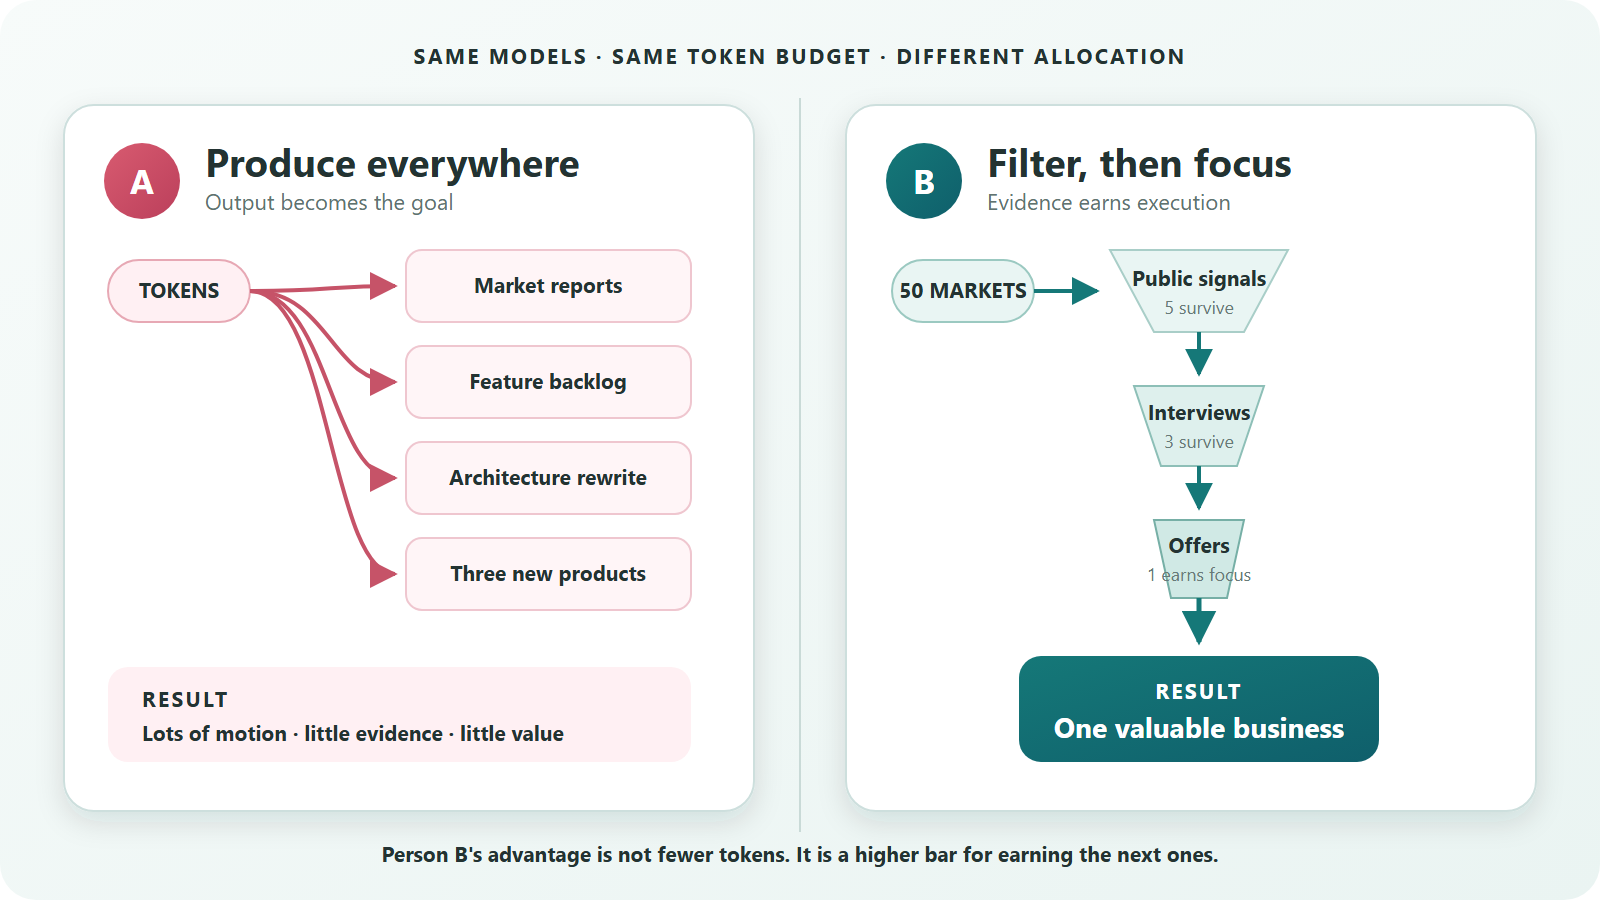
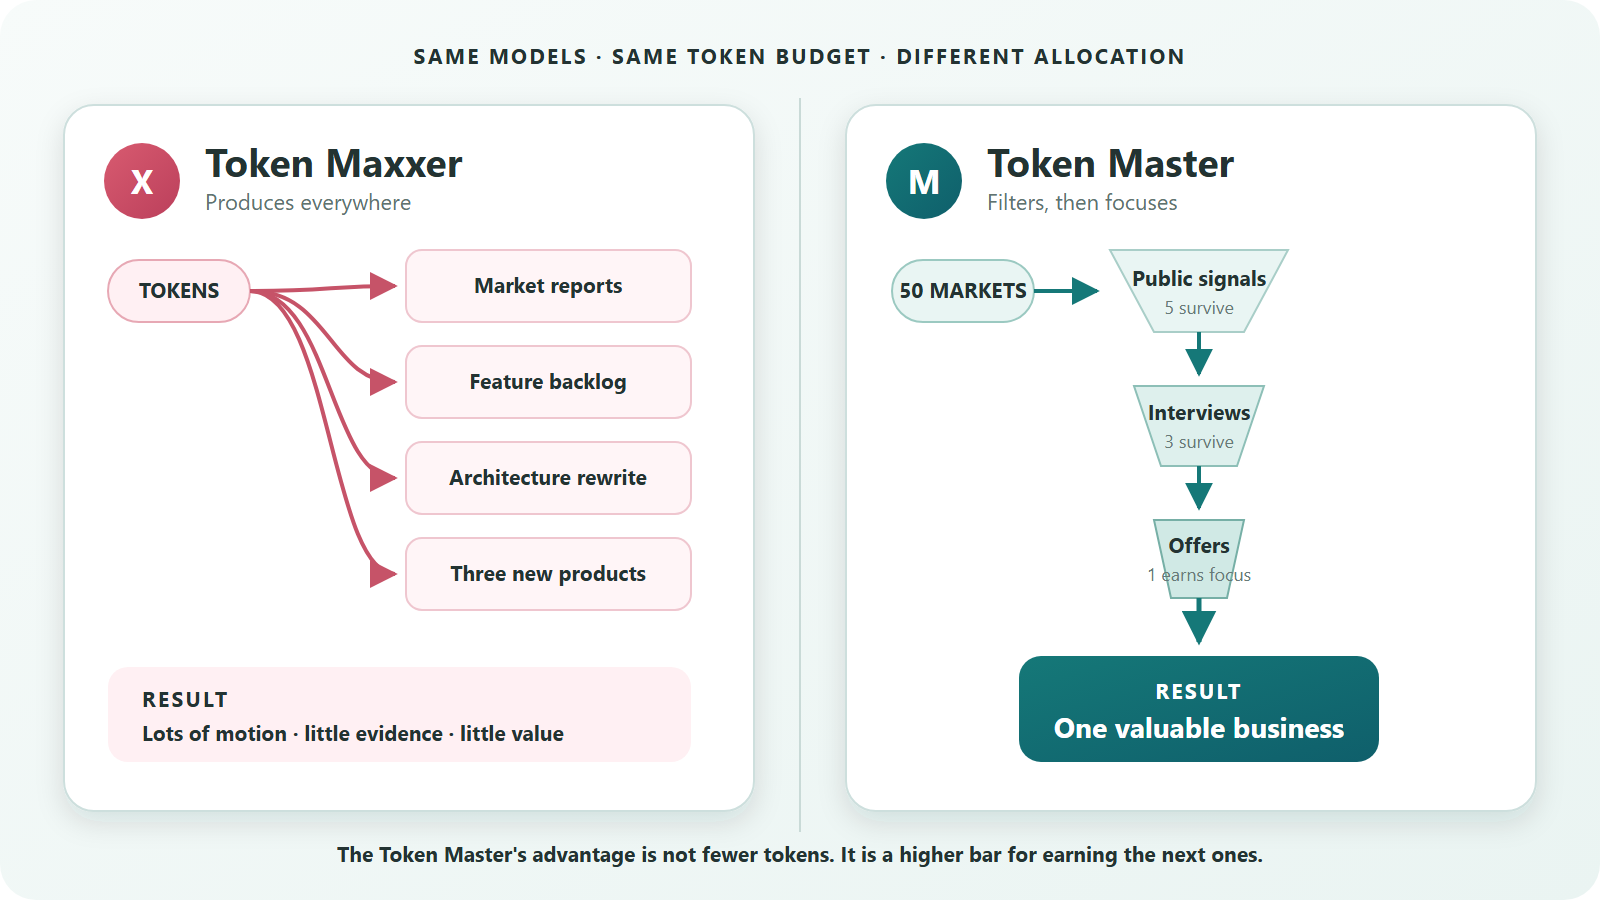
Reframe essay around token mastery

diff --git a/posts/revenue-per-token.md b/posts/revenue-per-token.md
@@ -1,27 +1,27 @@
 ---
 layout: default
-title: "Revenue per token: how to become Person B in the age of abundant intelligence"
-header_title: "Revenue per token"
+title: "Token Maxxer vs. Token Master: revenue per token in the age of abundant intelligence"
+header_title: "Token Maxxer vs. Token Master"
 date: 2026-08-09
-description: "AI makes production abundant. The scarce founder skill is deciding what deserves to be produced—and turning machine intelligence into evidence, customers, and revenue."
+description: "Token-maxxer culture celebrates AI output at any cost. Token mastery means allocating abundant intelligence toward evidence, customers, and revenue."
 image: /assets/images/revenue-per-token/person-a-person-b.png
 permalink: /posts/revenue-per-token/
 ---
 
 <div class="article-lead">
-  <p>The best AI-native founder will not be the person who produces the most. It will be the person who knows what deserves to be produced.</p>
+  <p>The Token Maxxer asks how much can be produced. The Token Master asks what deserves to be produced.</p>
 </div>
 
 Imagine two founders with access to the same models, coding agents, design tools, and token budget.
 
-**Person A** launches agents in every direction. They generate market reports, rewrite the architecture, create dozens of landing pages, polish onboarding, debate naming, refactor the database, and start several products at once. After a year, Person A has produced an extraordinary amount of work and very little value.
+**The Token Maxxer** launches agents in every direction. They generate market reports, rewrite the architecture, create dozens of landing pages, polish onboarding, debate naming, refactor the database, and start several products at once. After a year, the Maxxer has produced an extraordinary amount of work and very little value.
 
-**Person B** investigates 50 markets, rejects 45 quickly, speaks with customers in the remaining five, tests three offers, and finds one people will pay for. Only then do they build. After a year, Person B has produced much less software and a much more valuable business.
+**The Token Master** investigates 50 markets, rejects 45 quickly, speaks with customers in the remaining five, tests three offers, and finds one people will pay for. Only then do they build. After a year, the Master has produced much less software and a much more valuable business.
 
-Person B has achieved a far better token-to-revenue conversion.
+The Token Master has achieved a far better token-to-revenue conversion.
 
 <figure class="article-figure article-figure--hero">
-  <img src="/assets/images/revenue-per-token/person-a-person-b.svg" alt="Two founders start with the same token budget. Person A disperses it across many outputs and creates little value. Person B filters opportunities through evidence and commitment before concentrating execution on one valuable business.">
+  <img src="/assets/images/revenue-per-token/person-a-person-b.svg" alt="Two founders start with the same token budget. The Token Maxxer disperses it across many outputs and creates little value. The Token Master filters opportunities through evidence and commitment before concentrating execution on one valuable business.">
   <figcaption>Equal access to intelligence does not produce equal outcomes. Allocation is the difference.</figcaption>
 </figure>
 
@@ -56,7 +56,32 @@ A useful mental model is:
 
 This is not an accounting formula. It is deliberately multiplicative: a beautifully built product multiplied by zero demand still produces approximately zero value.
 
-## Person B does not minimize tokens
+## Token-maxxer culture
+
+Token maxxing is the natural posture of an era in which machine intelligence suddenly feels abundant. Models improve every few months, agents work in parallel, and another experiment costs almost nothing compared with hiring a team.
+
+At its best, this culture is a useful rejection of artificial scarcity. You learn agents by using them. Running ten cheap experiments can be more rational than debating one idea for a month. A founder who refuses to spend tokens may be protecting pennies while competitors buy information.
+
+The problem begins when token burn becomes a status signal.
+
+The Maxxer posts screenshots of 30 agents running at once. They celebrate lines of code, prompts executed, apps launched, and billions of tokens consumed. Their default question is “What else can we generate?” The activity is real, impressive, and increasingly disconnected from an external result.
+
+Token-maxxer culture tends to confuse:
+
+- compute with conviction;
+- parallelism with strategy;
+- output with outcomes;
+- novelty with demand;
+- autonomy with the absence of oversight;
+- a full context window with a clear mind.
+
+The seduction is powerful because AI can make every branch look finished. Ten weak ideas can return with research, branding, architecture, and polished prototypes. The presentation quality conceals that no customer has changed their behavior.
+
+The Token Master may ultimately spend **more** tokens than the Maxxer. The difference is not restraint for its own sake. It is gated allocation: each new tranche of intelligence must earn its way through evidence, commitment, or measured performance.
+
+The Maxxer spends because tokens are available. The Master spends because the next question is worth answering.
+
+## The Token Master does not minimize tokens
 
 Revenue per token should not become an argument for using as little AI as possible.
 
@@ -75,9 +100,9 @@ It is wasteful when those tokens produce:
 
 The goal is not minimum token consumption. It is **maximum consequential progress per unit of machine intelligence**.
 
-## Person A and Person B
+## Token Maxxer and Token Master
 
-| Person A | Person B |
+| Token Maxxer | Token Master |
 |---|---|
 | Starts with a product idea | Starts with a customer situation |
 | Uses AI to confirm the idea | Uses AI to find reasons it may fail |
@@ -90,17 +115,17 @@ The goal is not minimum token consumption. It is **maximum consequential progres
 | Interprets compliments as validation | Looks for behavior, sacrifice, and payment |
 | Sees killed projects as failure | Sees cheap rejection as progress |
 
-The biggest difference is that Person B has a much higher **idea mortality rate**.
+The biggest difference is that the Token Master has a much higher **idea mortality rate**.
 
-That sounds negative, but it is a superpower. Person B does not protect ideas. They protect time, attention, and future opportunity.
+That sounds negative, but it is a superpower. The Master does not protect ideas. They protect time, attention, and future opportunity.
 
-## The Person B operating system
+## The Token Master operating system
 
 ### 1. Choose an arena, then set an appetite
 
-Person A begins with: “I want to build an AI plant app.”
+The Maxxer begins with: “I want to build an AI plant app.”
 
-Person B begins with: “Which recurring gardening problems cause balcony owners to lose plants, spend money, or abandon the hobby?”
+The Master begins with: “Which recurring gardening problems cause balcony owners to lose plants, spend money, or abandon the hobby?”
 
 The first framing already contains a solution. The second opens an opportunity space.
 
@@ -243,7 +268,7 @@ Before serious development, answer:
 
 For an early B2B product, founder-led outreach is not an embarrassing temporary tactic. It is a learning channel. Sales conversations reveal language, urgency, objections, authority, budget, and implementation risk.
 
-Person B tries to sell the outcome while the product is still cheap to change.
+The Token Master tries to sell the outcome while the product is still cheap to change.
 
 ### 8. Measure outcomes, then count tokens
 
@@ -261,7 +286,7 @@ This is where literal token measurement becomes useful—but at the level of a w
 
 Do not optimize a cheap failure. A workflow that costs half as much but causes twice as many retries has worse intelligence efficiency.
 
-## A weekly Person B review
+## A weekly Token Master review
 
 Once a week, stop the agents and review the portfolio:
 
@@ -280,7 +305,7 @@ When code, copy, analysis, and design were expensive, producing them was evidenc
 
 AI can make a weak decision look finished. It can add polish before proof, scale a misunderstanding, and generate enough motion to hide the absence of demand.
 
-Person B resists that seduction. They use machine intelligence aggressively, but place it behind a sequence of increasingly expensive gates:
+The Token Master resists that seduction. They use machine intelligence aggressively, but place it behind a sequence of increasingly expensive gates:
 
 ```text
 hypothesis → public signal → customer story → commitment → build → behavior → revenue
@@ -293,3 +318,7 @@ The winning founder will not ask, “How much can these agents make?”
 They will ask:
 
 > **What is the most valuable thing reality is ready to let us prove next?**
+
+---
+
+*AI authorship note: I wrote this essay with AI as an experiment, and because life as a busy family man leaves limited time for long-form writing. The ideas, direction, and final editorial decisions are mine.*

diff --git a/pages/blog.md b/pages/blog.md
@@ -7,8 +7,8 @@ image: /assets/images/social/georgi-kostov-social.png
 ---
 <div class="blog-cards">
   <a href="{{ '/posts/revenue-per-token/' | relative_url }}" class="blog-card">
-    <h2>Revenue per token: how to become Person B in the age of abundant intelligence</h2>
-    <p>AI makes production abundant. The scarce founder skill is deciding what deserves to be produced—and converting intelligence into evidence, customers, and revenue.</p>
+    <h2>Token Maxxer vs. Token Master: revenue per token in the age of abundant intelligence</h2>
+    <p>Token-maxxer culture celebrates AI output at any cost. Token mastery means converting abundant intelligence into evidence, customers, and revenue.</p>
   </a>
   <a href="{{ '/posts/51-4-dolby-atmos-home-theater/' | relative_url }}" class="blog-card">
     <h2>How I built and calibrated my 5.1.4 Dolby Atmos home theater</h2>
